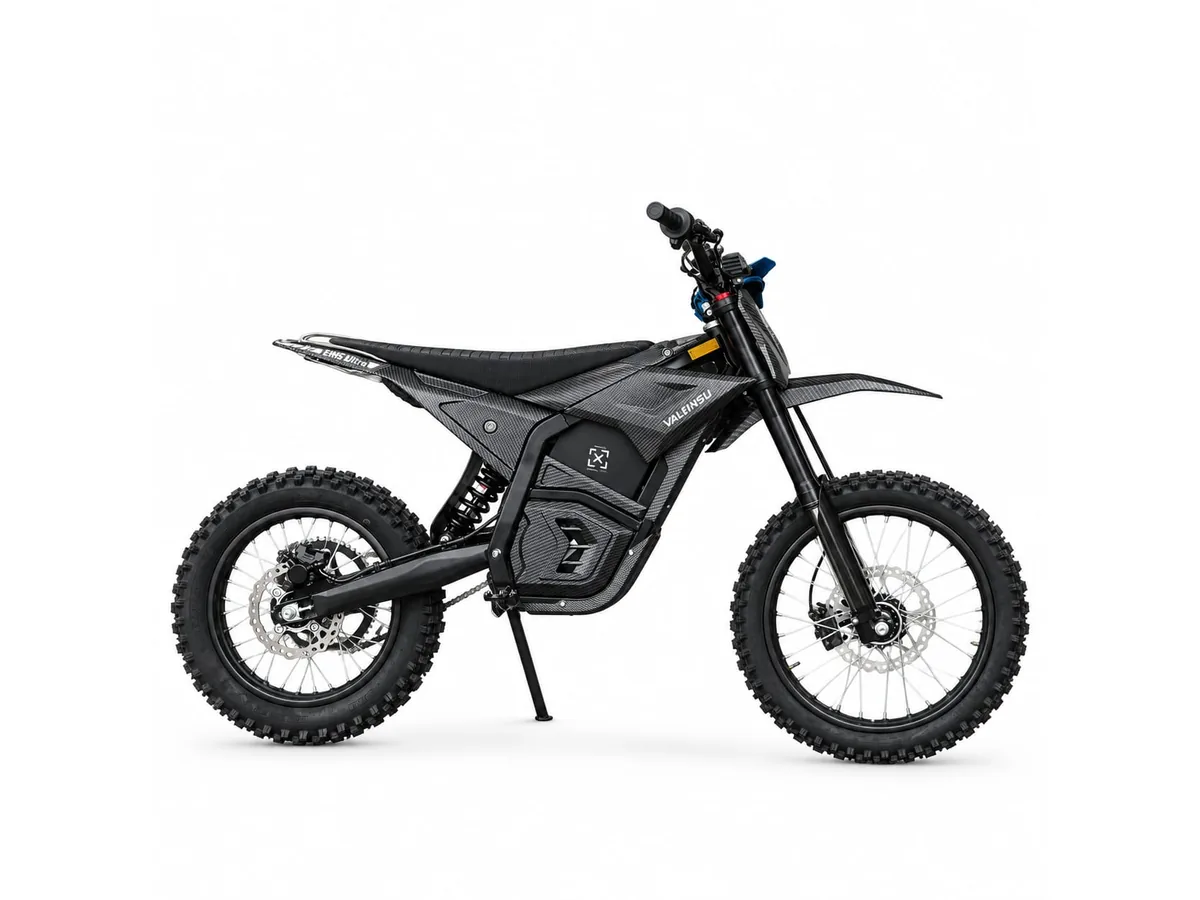
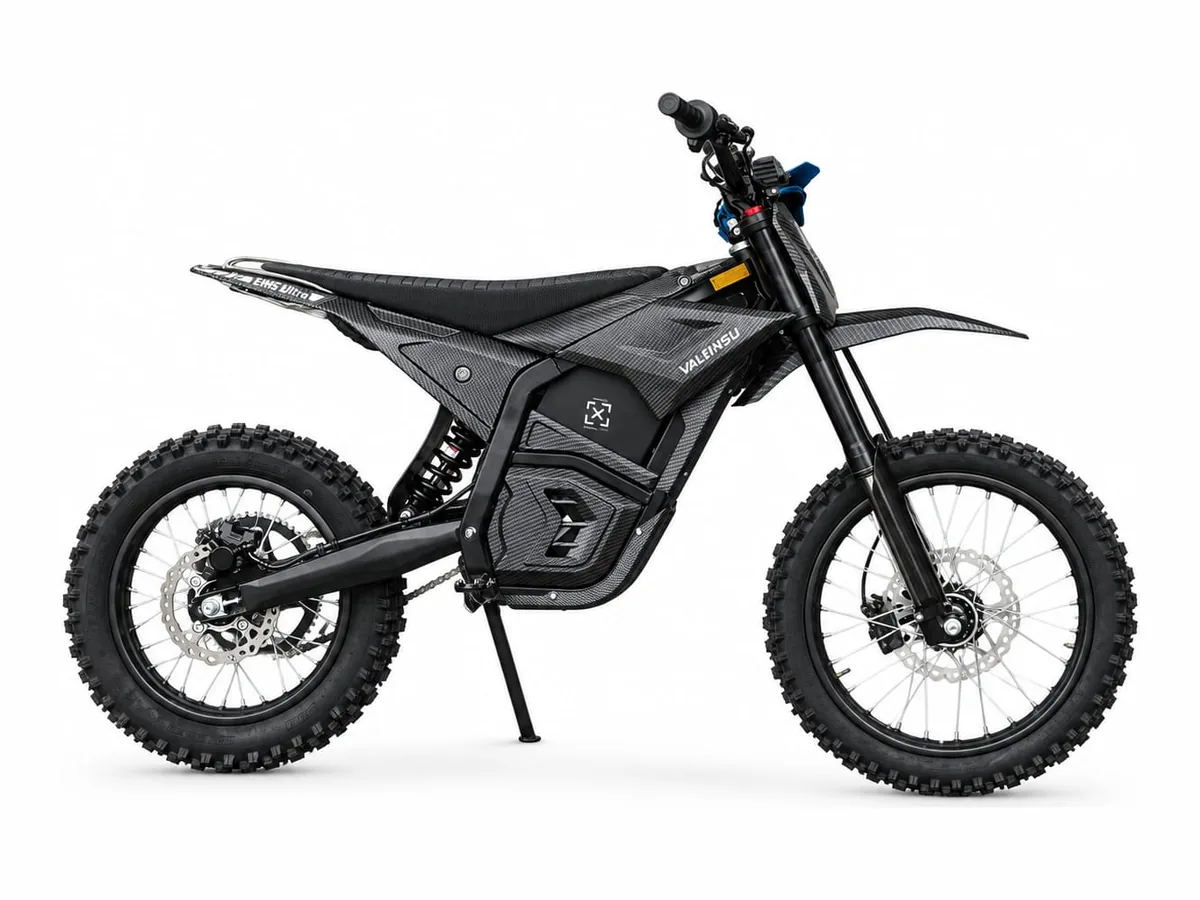
Ultra: fotografije obrezane na motocikl pa uklopljene u 4:3, ?v=3 protiv kesa

Changed region(s): [[0.0308, 0.0933, 0.9558, 0.9022]]

diff --git a/modeli/em-5-ultra.html b/modeli/em-5-ultra.html
@@ -92,7 +92,7 @@
                   <img src="../assets/motori/em-5-pro/EM-5-PRO-ELECTRIC-DIRT-BIKE-Right-side-view-from-front-to-back.webp" alt="" loading="lazy" width="1200" height="900">
                 </div>
                 <div class="subnav__shot" data-shot="em-5-ultra">
-                  <img src="../assets/motori/em-5-ultra/EM-5-ULTRA-02.webp" alt="" loading="lazy" width="1200" height="900">
+                  <img src="../assets/motori/em-5-ultra/EM-5-ULTRA-02.webp?v=3" alt="" loading="lazy" width="1200" height="900">
                 </div>
                 <!-- Svi modeli: tri motocikla u kosim isjeccima.
                      Sva tri kadra gledaju u istu stranu i pokazuju
@@ -141,7 +141,7 @@
         <h1>EM-5 <span>Ultra</span></h1>
       </div>
       <div class="mh__slika" data-znak="ULTRA">
-        <img src="../assets/motori/em-5-ultra/EM-5-ULTRA-02.webp" alt="Valtinsu EM-5 Ultra u crnoj boji, bočni pogled" width="1254" height="940" fetchpriority="high">
+        <img src="../assets/motori/em-5-ultra/EM-5-ULTRA-02.webp?v=3" alt="Valtinsu EM-5 Ultra u crnoj boji, bočni pogled" width="1254" height="940" fetchpriority="high">
       </div>
     </div>
   </section>
@@ -161,7 +161,7 @@
         <div class="viewer">
           <div class="stage" id="pozornica" data-smjer="naprijed">
             <img class="stage__img is-active" width="1000" height="1000"
-                 src="../assets/motori/em-5-ultra/EM-5-ULTRA-02.webp"
+                 src="../assets/motori/em-5-ultra/EM-5-ULTRA-02.webp?v=3"
                  alt="Valtinsu EM-5 Ultra u crnoj boji, bok i prednji dio">
             <img class="stage__img" width="1000" height="1000" src="" alt="" aria-hidden="true">
           </div>
@@ -191,51 +191,51 @@
               "padez": "crnoj",
               "kadrovi": [
                 {
-                  "src": "../assets/motori/em-5-ultra/EM-5-ULTRA-02.webp",
+                  "src": "../assets/motori/em-5-ultra/EM-5-ULTRA-02.webp?v=3",
                   "kadar": "bok i prednji dio"
                 },
                 {
-                  "src": "../assets/motori/em-5-ultra/EM-5-ULTRA-03.webp",
+                  "src": "../assets/motori/em-5-ultra/EM-5-ULTRA-03.webp?v=3",
                   "kadar": "bok i prednji dio, bliže"
                 },
                 {
-                  "src": "../assets/motori/em-5-ultra/EM-5-ULTRA-04.webp",
+                  "src": "../assets/motori/em-5-ultra/EM-5-ULTRA-04.webp?v=3",
                   "kadar": "desna strana, od naprijed"
                 },
                 {
-                  "src": "../assets/motori/em-5-ultra/EM-5-ULTRA-05.webp",
+                  "src": "../assets/motori/em-5-ultra/EM-5-ULTRA-05.webp?v=3",
                   "kadar": "lijeva strana"
                 },
                 {
-                  "src": "../assets/motori/em-5-ultra/EM-5-ULTRA-06.webp",
+                  "src": "../assets/motori/em-5-ultra/EM-5-ULTRA-06.webp?v=3",
                   "kadar": "lijeva strana, od natrag"
                 },
                 {
-                  "src": "../assets/motori/em-5-ultra/EM-5-ULTRA-07.webp",
+                  "src": "../assets/motori/em-5-ultra/EM-5-ULTRA-07.webp?v=3",
                   "kadar": "pogled straga"
                 },
                 {
-                  "src": "../assets/motori/em-5-ultra/EM-5-ULTRA-08.webp",
+                  "src": "../assets/motori/em-5-ultra/EM-5-ULTRA-08.webp?v=3",
                   "kadar": "stražnji dio, s desna"
                 },
                 {
-                  "src": "../assets/motori/em-5-ultra/EM-5-ULTRA-09.webp",
+                  "src": "../assets/motori/em-5-ultra/EM-5-ULTRA-09.webp?v=3",
                   "kadar": "bok i stražnji dio"
                 },
                 {
-                  "src": "../assets/motori/em-5-ultra/EM-5-ULTRA-10.webp",
+                  "src": "../assets/motori/em-5-ultra/EM-5-ULTRA-10.webp?v=3",
                   "kadar": "desna strana"
                 },
                 {
-                  "src": "../assets/motori/em-5-ultra/EM-5-ULTRA-11.webp",
+                  "src": "../assets/motori/em-5-ultra/EM-5-ULTRA-11.webp?v=3",
                   "kadar": "desna strana, bočno"
                 },
                 {
-                  "src": "../assets/motori/em-5-ultra/EM-5-ULTRA-01.webp",
+                  "src": "../assets/motori/em-5-ultra/EM-5-ULTRA-01.webp?v=3",
                   "kadar": "pogled sprijeda"
                 },
                 {
-                  "src": "../assets/motori/em-5-ultra/EM-5-ULTRA-prednji-dio.webp",
+                  "src": "../assets/motori/em-5-ultra/EM-5-ULTRA-prednji-dio.webp?v=3",
                   "kadar": "pogled s upravljača",
                   "gumb": "Pogled s upravljača"
                 }

diff --git a/index.html b/index.html
@@ -94,7 +94,7 @@
                   <img src="assets/motori/em-5-pro/EM-5-PRO-ELECTRIC-DIRT-BIKE-Right-side-view-from-front-to-back.webp" alt="" loading="lazy" width="1200" height="900">
                 </div>
                 <div class="subnav__shot" data-shot="em-5-ultra">
-                  <img src="assets/motori/em-5-ultra/EM-5-ULTRA-02.webp" alt="" loading="lazy" width="1200" height="900">
+                  <img src="assets/motori/em-5-ultra/EM-5-ULTRA-02.webp?v=3" alt="" loading="lazy" width="1200" height="900">
                 </div>
                 <!-- Svi modeli: tri motocikla u kosim isjeccima.
                      Sva tri kadra gledaju u istu stranu i pokazuju
@@ -230,18 +230,18 @@
       "c": "#181818",
       "akcent": "#4c4c4c",
       "slike": [
-        "assets/motori/em-5-ultra/EM-5-ULTRA-02.webp",
-        "assets/motori/em-5-ultra/EM-5-ULTRA-03.webp",
-        "assets/motori/em-5-ultra/EM-5-ULTRA-04.webp",
-        "assets/motori/em-5-ultra/EM-5-ULTRA-05.webp",
-        "assets/motori/em-5-ultra/EM-5-ULTRA-06.webp",
-        "assets/motori/em-5-ultra/EM-5-ULTRA-07.webp",
-        "assets/motori/em-5-ultra/EM-5-ULTRA-08.webp",
-        "assets/motori/em-5-ultra/EM-5-ULTRA-09.webp",
-        "assets/motori/em-5-ultra/EM-5-ULTRA-10.webp",
-        "assets/motori/em-5-ultra/EM-5-ULTRA-11.webp",
-        "assets/motori/em-5-ultra/EM-5-ULTRA-01.webp",
-        "assets/motori/em-5-ultra/EM-5-ULTRA-prednji-dio.webp"
+        "assets/motori/em-5-ultra/EM-5-ULTRA-02.webp?v=3",
+        "assets/motori/em-5-ultra/EM-5-ULTRA-03.webp?v=3",
+        "assets/motori/em-5-ultra/EM-5-ULTRA-04.webp?v=3",
+        "assets/motori/em-5-ultra/EM-5-ULTRA-05.webp?v=3",
+        "assets/motori/em-5-ultra/EM-5-ULTRA-06.webp?v=3",
+        "assets/motori/em-5-ultra/EM-5-ULTRA-07.webp?v=3",
+        "assets/motori/em-5-ultra/EM-5-ULTRA-08.webp?v=3",
+        "assets/motori/em-5-ultra/EM-5-ULTRA-09.webp?v=3",
+        "assets/motori/em-5-ultra/EM-5-ULTRA-10.webp?v=3",
+        "assets/motori/em-5-ultra/EM-5-ULTRA-11.webp?v=3",
+        "assets/motori/em-5-ultra/EM-5-ULTRA-01.webp?v=3",
+        "assets/motori/em-5-ultra/EM-5-ULTRA-prednji-dio.webp?v=3"
       ]
     }
   ]
@@ -266,7 +266,7 @@
             <a class="link-arrow link-kart link-kart--upit" href="kontakt.html?model=em-5-ultra"><span>Pošalji upit</span><svg class="link-kart__strelica" width="16" height="16" viewBox="0 0 24 24" fill="none" aria-hidden="true"><path d="M6 18L18 6M8.5 6H18v9.5" stroke="currentColor" stroke-width="3" stroke-linecap="square"/></svg></a>
           </div>
           <div class="model-cell__media shot">
-            <img src="assets/motori/em-5-ultra/EM-5-ULTRA-02.webp" alt="Valtinsu EM-5 Ultra u crnoj boji, bok i prednji dio" loading="lazy" width="1200" height="900">
+            <img src="assets/motori/em-5-ultra/EM-5-ULTRA-02.webp?v=3" alt="Valtinsu EM-5 Ultra u crnoj boji, bok i prednji dio" loading="lazy" width="1200" height="900">
           </div>
         </li>
 

diff --git a/modeli.html b/modeli.html
@@ -92,7 +92,7 @@
                   <img src="assets/motori/em-5-pro/EM-5-PRO-ELECTRIC-DIRT-BIKE-Right-side-view-from-front-to-back.webp" alt="" loading="lazy" width="1200" height="900">
                 </div>
                 <div class="subnav__shot" data-shot="em-5-ultra">
-                  <img src="assets/motori/em-5-ultra/EM-5-ULTRA-02.webp" alt="" loading="lazy" width="1200" height="900">
+                  <img src="assets/motori/em-5-ultra/EM-5-ULTRA-02.webp?v=3" alt="" loading="lazy" width="1200" height="900">
                 </div>
                 <!-- Svi modeli: tri motocikla u kosim isjeccima.
                      Sva tri kadra gledaju u istu stranu i pokazuju
@@ -207,18 +207,18 @@
       "c": "#181818",
       "akcent": "#4c4c4c",
       "slike": [
-        "assets/motori/em-5-ultra/EM-5-ULTRA-02.webp",
-        "assets/motori/em-5-ultra/EM-5-ULTRA-03.webp",
-        "assets/motori/em-5-ultra/EM-5-ULTRA-04.webp",
-        "assets/motori/em-5-ultra/EM-5-ULTRA-05.webp",
-        "assets/motori/em-5-ultra/EM-5-ULTRA-06.webp",
-        "assets/motori/em-5-ultra/EM-5-ULTRA-07.webp",
-        "assets/motori/em-5-ultra/EM-5-ULTRA-08.webp",
-        "assets/motori/em-5-ultra/EM-5-ULTRA-09.webp",
-        "assets/motori/em-5-ultra/EM-5-ULTRA-10.webp",
-        "assets/motori/em-5-ultra/EM-5-ULTRA-11.webp",
-        "assets/motori/em-5-ultra/EM-5-ULTRA-01.webp",
-        "assets/motori/em-5-ultra/EM-5-ULTRA-prednji-dio.webp"
+        "assets/motori/em-5-ultra/EM-5-ULTRA-02.webp?v=3",
+        "assets/motori/em-5-ultra/EM-5-ULTRA-03.webp?v=3",
+        "assets/motori/em-5-ultra/EM-5-ULTRA-04.webp?v=3",
+        "assets/motori/em-5-ultra/EM-5-ULTRA-05.webp?v=3",
+        "assets/motori/em-5-ultra/EM-5-ULTRA-06.webp?v=3",
+        "assets/motori/em-5-ultra/EM-5-ULTRA-07.webp?v=3",
+        "assets/motori/em-5-ultra/EM-5-ULTRA-08.webp?v=3",
+        "assets/motori/em-5-ultra/EM-5-ULTRA-09.webp?v=3",
+        "assets/motori/em-5-ultra/EM-5-ULTRA-10.webp?v=3",
+        "assets/motori/em-5-ultra/EM-5-ULTRA-11.webp?v=3",
+        "assets/motori/em-5-ultra/EM-5-ULTRA-01.webp?v=3",
+        "assets/motori/em-5-ultra/EM-5-ULTRA-prednji-dio.webp?v=3"
       ]
     }
   ]
@@ -240,7 +240,7 @@
           <a class="link-arrow link-kart link-kart--upit" href="kontakt.html?model=em-5-ultra"><span>Pošalji upit</span><svg class="link-kart__strelica" width="16" height="16" viewBox="0 0 24 24" fill="none" aria-hidden="true"><path d="M6 18L18 6M8.5 6H18v9.5" stroke="currentColor" stroke-width="3" stroke-linecap="square"/></svg></a>
         </div>
         <div class="model-cell__media shot">
-            <img src="assets/motori/em-5-ultra/EM-5-ULTRA-02.webp" alt="Valtinsu EM-5 Ultra u crnoj boji, bok i prednji dio" loading="lazy" width="1200" height="900">
+            <img src="assets/motori/em-5-ultra/EM-5-ULTRA-02.webp?v=3" alt="Valtinsu EM-5 Ultra u crnoj boji, bok i prednji dio" loading="lazy" width="1200" height="900">
           </div>
       </li>
 

diff --git a/modeli/em-5-pro.html b/modeli/em-5-pro.html
@@ -92,7 +92,7 @@
                   <img src="../assets/motori/em-5-pro/EM-5-PRO-ELECTRIC-DIRT-BIKE-Right-side-view-from-front-to-back.webp" alt="" loading="lazy" width="1200" height="900">
                 </div>
                 <div class="subnav__shot" data-shot="em-5-ultra">
-                  <img src="../assets/motori/em-5-ultra/EM-5-ULTRA-02.webp" alt="" loading="lazy" width="1200" height="900">
+                  <img src="../assets/motori/em-5-ultra/EM-5-ULTRA-02.webp?v=3" alt="" loading="lazy" width="1200" height="900">
                 </div>
                 <!-- Svi modeli: tri motocikla u kosim isjeccima.
                      Sva tri kadra gledaju u istu stranu i pokazuju
@@ -376,7 +376,7 @@
           <a class="link-arrow link-kart" href="em-5-ultra.html"><span>Specifikacije</span><svg class="link-kart__strelica" width="16" height="16" viewBox="0 0 24 24" fill="none" aria-hidden="true"><path d="M6 18L18 6M8.5 6H18v9.5" stroke="currentColor" stroke-width="3" stroke-linecap="square"/></svg></a>
         </div>
         <div class="model-cell__media shot">
-            <img src="../assets/motori/em-5-ultra/EM-5-ULTRA-02.webp" alt="Valtinsu EM-5 Ultra u crnoj boji, bok i prednji dio" loading="lazy" width="1200" height="900">
+            <img src="../assets/motori/em-5-ultra/EM-5-ULTRA-02.webp?v=3" alt="Valtinsu EM-5 Ultra u crnoj boji, bok i prednji dio" loading="lazy" width="1200" height="900">
           </div>
       </li>
 

diff --git a/modeli/em-5.html b/modeli/em-5.html
@@ -92,7 +92,7 @@
                   <img src="../assets/motori/em-5-pro/EM-5-PRO-ELECTRIC-DIRT-BIKE-Right-side-view-from-front-to-back.webp" alt="" loading="lazy" width="1200" height="900">
                 </div>
                 <div class="subnav__shot" data-shot="em-5-ultra">
-                  <img src="../assets/motori/em-5-ultra/EM-5-ULTRA-02.webp" alt="" loading="lazy" width="1200" height="900">
+                  <img src="../assets/motori/em-5-ultra/EM-5-ULTRA-02.webp?v=3" alt="" loading="lazy" width="1200" height="900">
                 </div>
                 <!-- Svi modeli: tri motocikla u kosim isjeccima.
                      Sva tri kadra gledaju u istu stranu i pokazuju
@@ -372,7 +372,7 @@
           <a class="link-arrow link-kart" href="em-5-ultra.html"><span>Specifikacije</span><svg class="link-kart__strelica" width="16" height="16" viewBox="0 0 24 24" fill="none" aria-hidden="true"><path d="M6 18L18 6M8.5 6H18v9.5" stroke="currentColor" stroke-width="3" stroke-linecap="square"/></svg></a>
         </div>
         <div class="model-cell__media shot">
-            <img src="../assets/motori/em-5-ultra/EM-5-ULTRA-02.webp" alt="Valtinsu EM-5 Ultra u crnoj boji, bok i prednji dio" loading="lazy" width="1200" height="900">
+            <img src="../assets/motori/em-5-ultra/EM-5-ULTRA-02.webp?v=3" alt="Valtinsu EM-5 Ultra u crnoj boji, bok i prednji dio" loading="lazy" width="1200" height="900">
           </div>
       </li>
 

diff --git a/kontakt.html b/kontakt.html
@@ -92,7 +92,7 @@
                   <img src="assets/motori/em-5-pro/EM-5-PRO-ELECTRIC-DIRT-BIKE-Right-side-view-from-front-to-back.webp" alt="" loading="lazy" width="1200" height="900">
                 </div>
                 <div class="subnav__shot" data-shot="em-5-ultra">
-                  <img src="assets/motori/em-5-ultra/EM-5-ULTRA-02.webp" alt="" loading="lazy" width="1200" height="900">
+                  <img src="assets/motori/em-5-ultra/EM-5-ULTRA-02.webp?v=3" alt="" loading="lazy" width="1200" height="900">
                 </div>
                 <!-- Svi modeli: tri motocikla u kosim isjeccima.
                      Sva tri kadra gledaju u istu stranu i pokazuju
@@ -343,7 +343,7 @@
             "boje": [
               { "id": "crna", "naziv": "Crna, karbonski uzorak",
                 "c": "#181818", "akcent": "#4c4c4c",
-                "foto": "assets/motori/em-5-ultra/EM-5-ULTRA-02.webp" }
+                "foto": "assets/motori/em-5-ultra/EM-5-ULTRA-02.webp?v=3" }
             ]
           },
           "Nisam siguran, trebam preporuku": {

diff --git a/kupnja.html b/kupnja.html
@@ -92,7 +92,7 @@
                   <img src="assets/motori/em-5-pro/EM-5-PRO-ELECTRIC-DIRT-BIKE-Right-side-view-from-front-to-back.webp" alt="" loading="lazy" width="1200" height="900">
                 </div>
                 <div class="subnav__shot" data-shot="em-5-ultra">
-                  <img src="assets/motori/em-5-ultra/EM-5-ULTRA-02.webp" alt="" loading="lazy" width="1200" height="900">
+                  <img src="assets/motori/em-5-ultra/EM-5-ULTRA-02.webp?v=3" alt="" loading="lazy" width="1200" height="900">
                 </div>
                 <!-- Svi modeli: tri motocikla u kosim isjeccima.
                      Sva tri kadra gledaju u istu stranu i pokazuju

diff --git a/o-nama.html b/o-nama.html
@@ -92,7 +92,7 @@
                   <img src="assets/motori/em-5-pro/EM-5-PRO-ELECTRIC-DIRT-BIKE-Right-side-view-from-front-to-back.webp" alt="" loading="lazy" width="1200" height="900">
                 </div>
                 <div class="subnav__shot" data-shot="em-5-ultra">
-                  <img src="assets/motori/em-5-ultra/EM-5-ULTRA-02.webp" alt="" loading="lazy" width="1200" height="900">
+                  <img src="assets/motori/em-5-ultra/EM-5-ULTRA-02.webp?v=3" alt="" loading="lazy" width="1200" height="900">
                 </div>
                 <!-- Svi modeli: tri motocikla u kosim isjeccima.
                      Sva tri kadra gledaju u istu stranu i pokazuju
